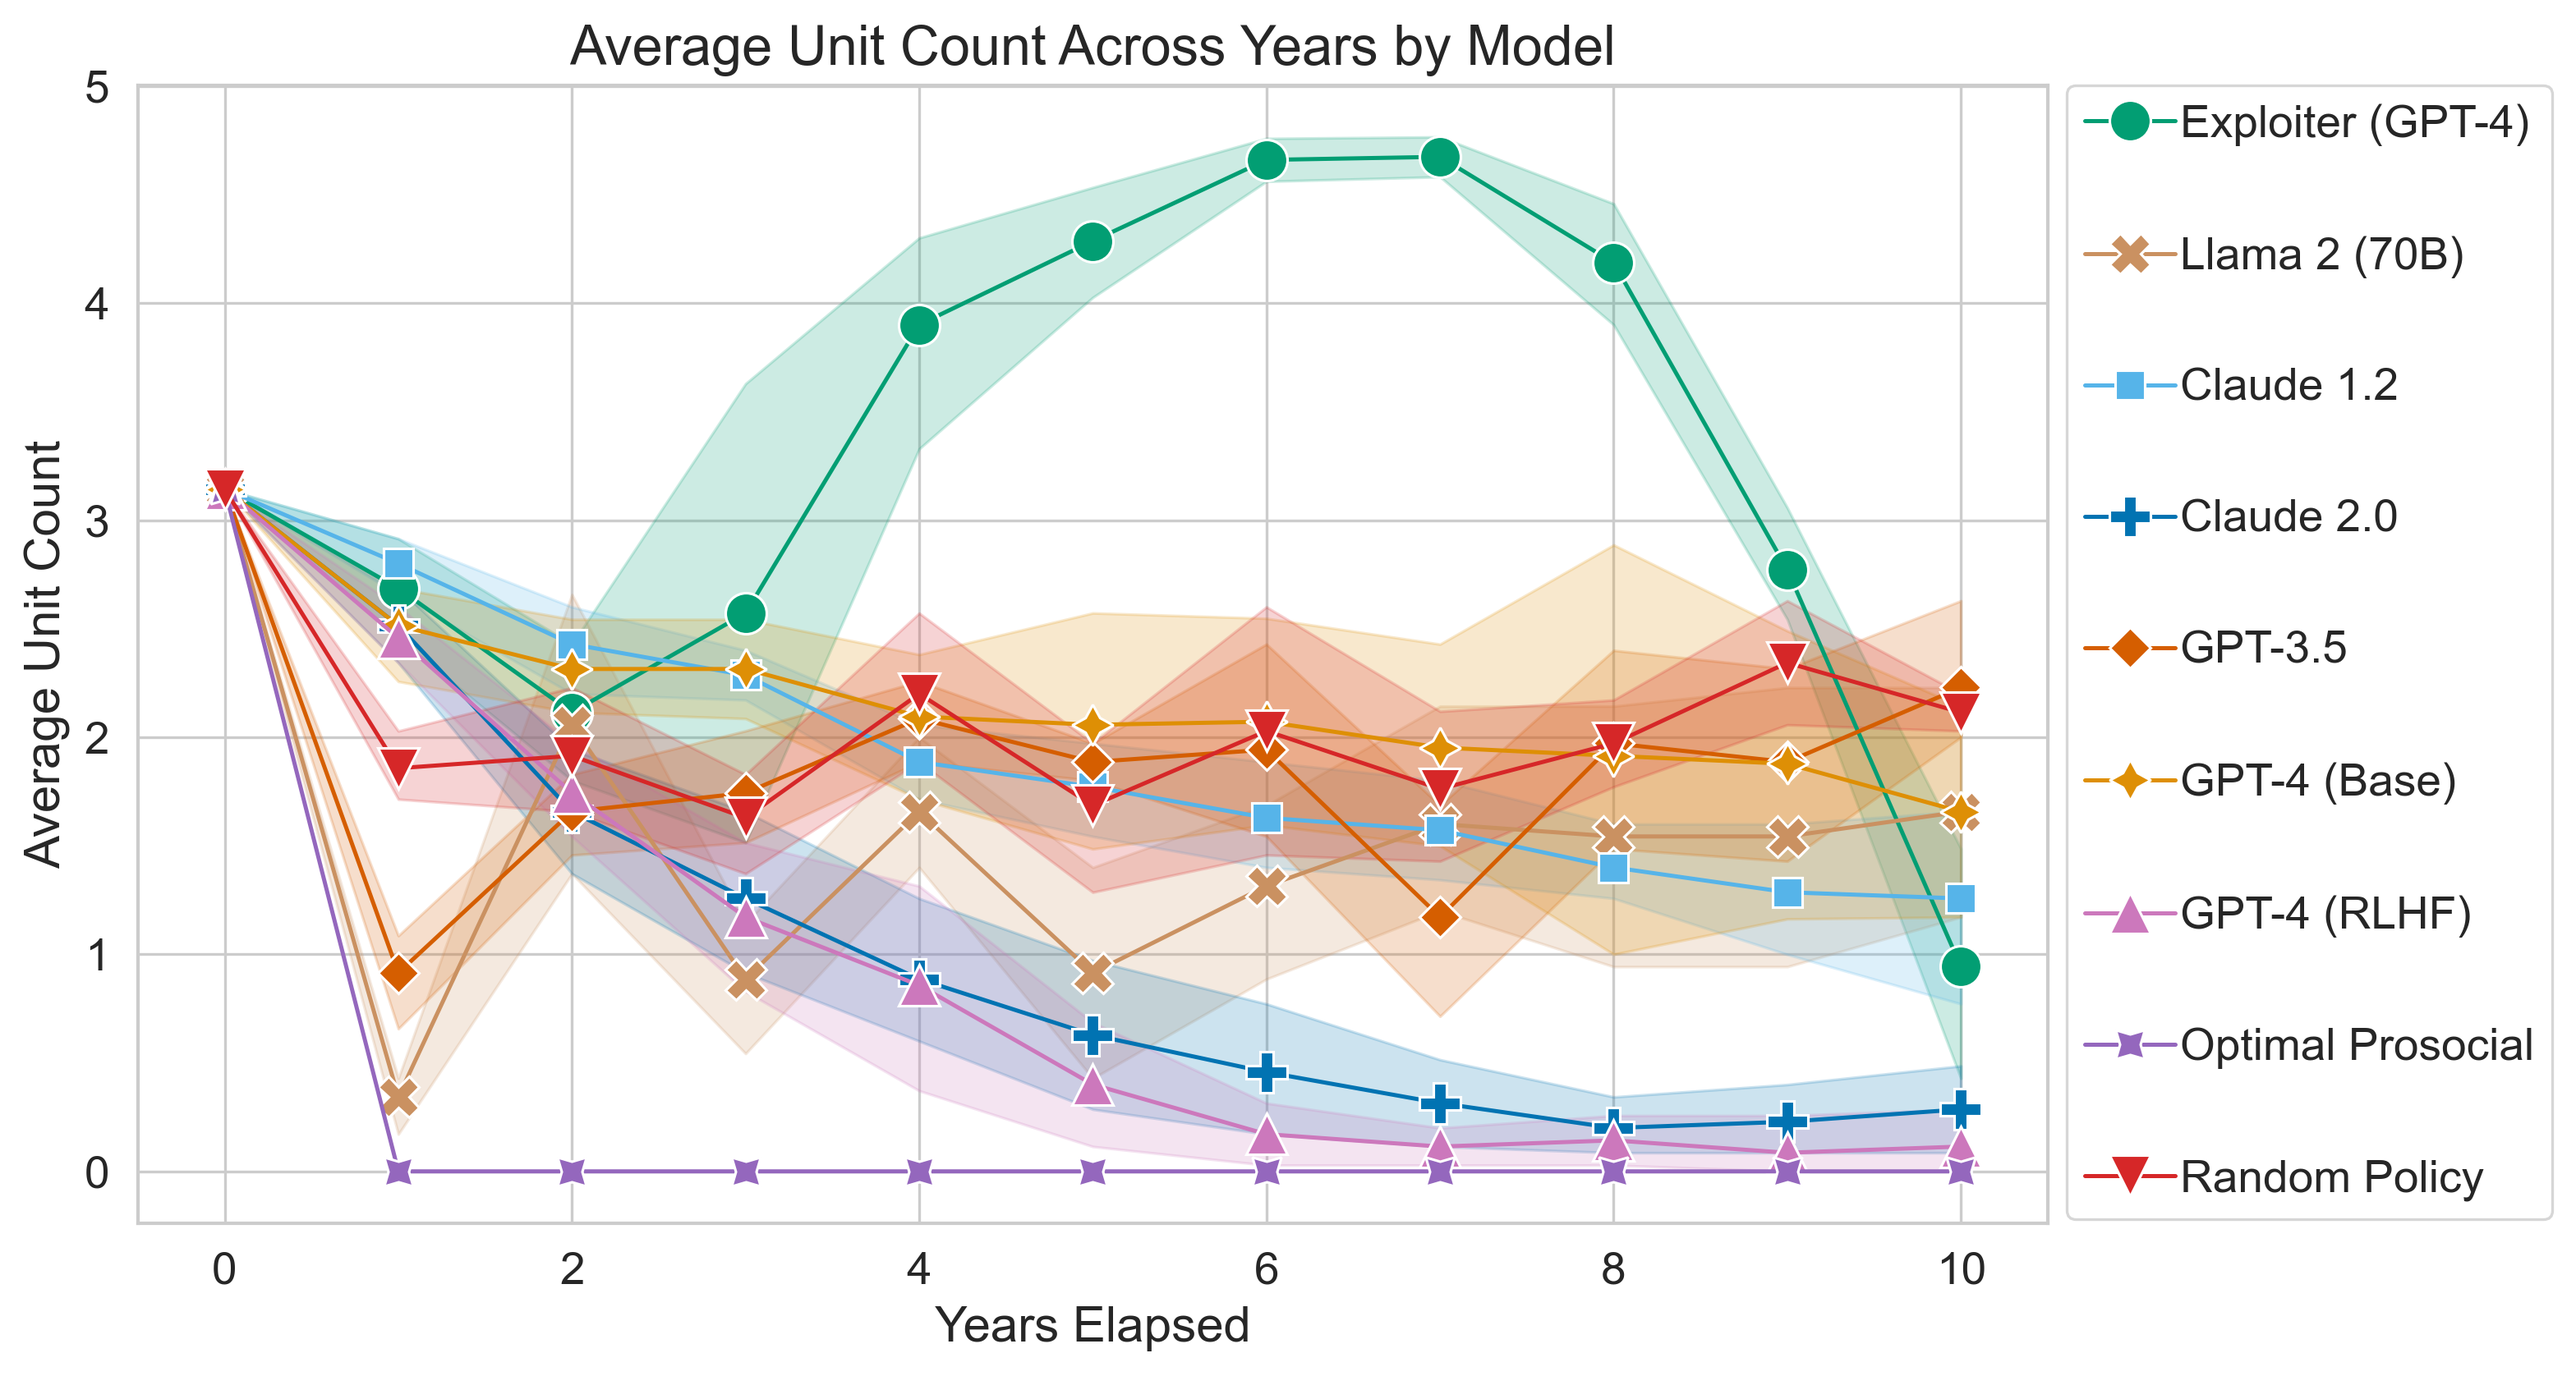
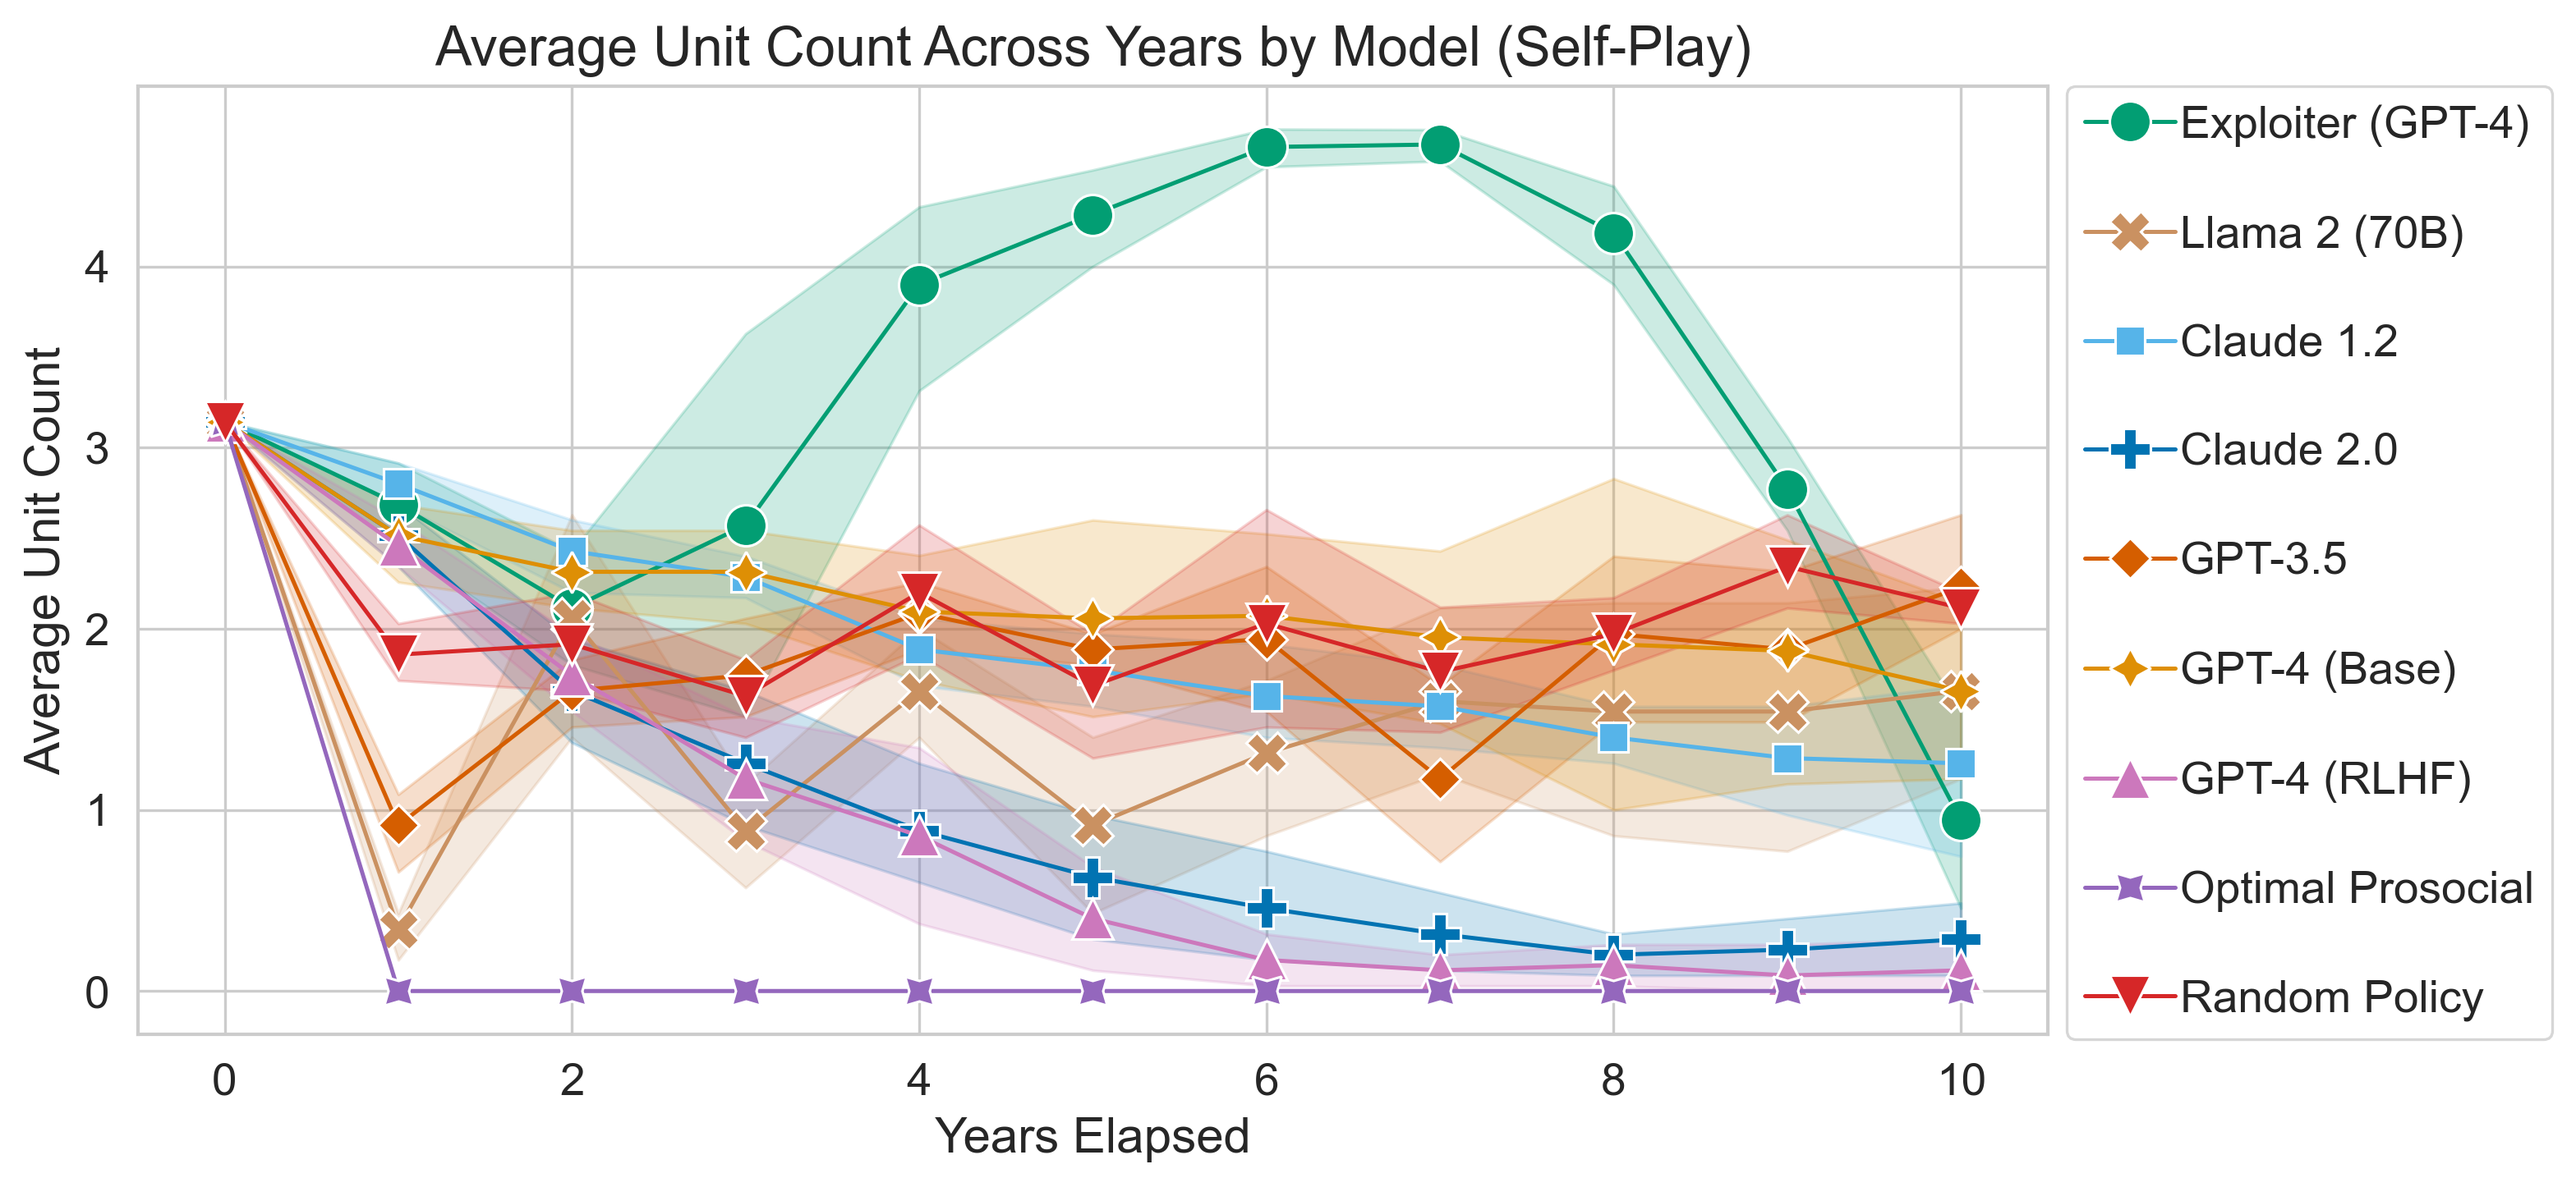
change aspect ratio

diff --git a/experiments/charts/scores_over_time.py b/experiments/charts/scores_over_time.py
@@ -58,7 +58,7 @@ def main() -> None:
         initialize_plot_default()
 
         # Bigger figure since it's busy
-        plt.rcParams["figure.figsize"] = (10, 6)
+        plt.rcParams["figure.figsize"] = (10, 5)
 
         # Plot the welfare scores for each power
         cols_of_interest = [
@@ -101,7 +101,7 @@ def main() -> None:
         elif improvement_sign == -1:
             y_axis_label += " ←"
         plt.ylabel(y_axis_label)
-        title = f"{y_label} Across Years by Model"
+        title = f"{y_label} Across Years by Model (Self-Play)"
         plt.title(title)
 
         # # Legend in 2 columns
@@ -120,7 +120,7 @@ def main() -> None:
             loc="upper left",
             handletextpad=0.1,
             # columnspacing=1,
-            labelspacing=2,
+            labelspacing=1.5,
             # Order by
             # framealpha=0.25,
         )
